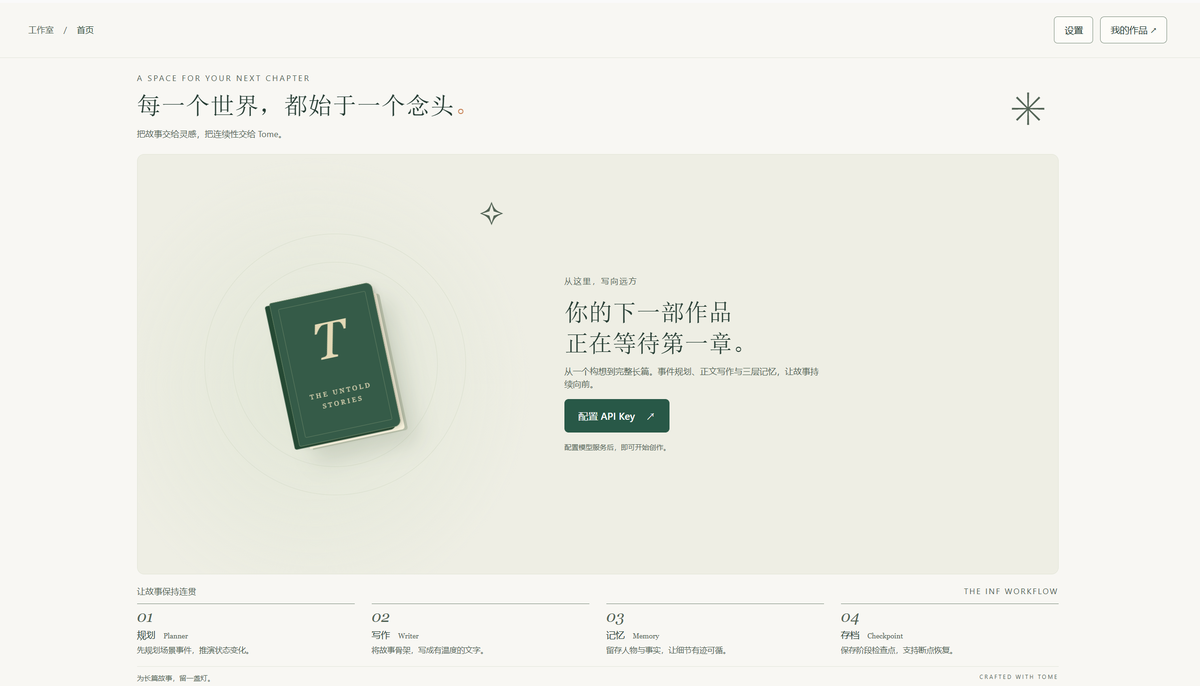
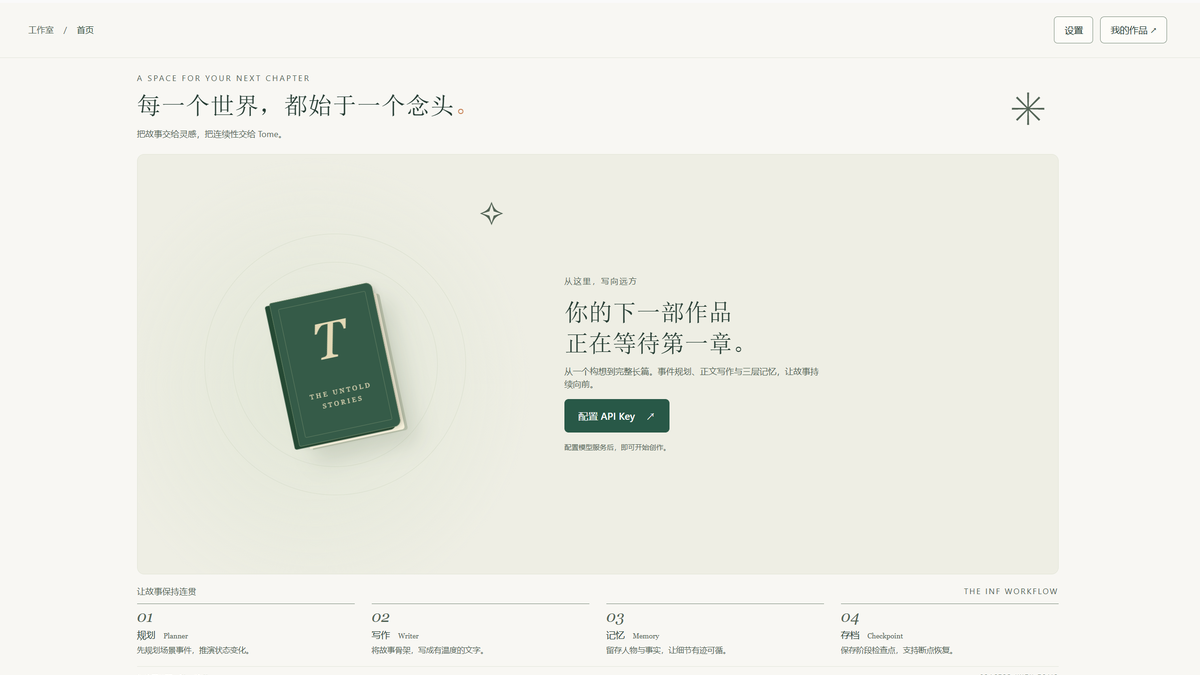
slides: show complete frontend screenshots at equal size

diff --git a/docs/slides/style.css b/docs/slides/style.css
@@ -2810,10 +2810,11 @@
 .ui-shot img {
   display: block;
   width: 100%;
-  height: 220px;
+  height: auto;
+  aspect-ratio: 16 / 9;
   margin: 0;
   object-fit: cover;
-  object-position: left top;
+  object-position: center top;
   background: var(--paper-2);
 }
 
